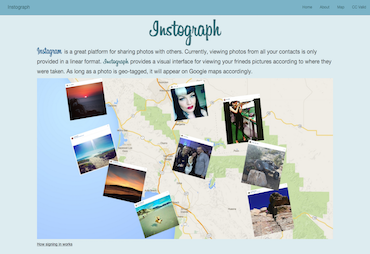
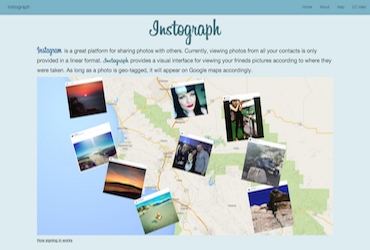
add devweek project

diff --git a/index.html b/index.html
@@ -12,6 +12,7 @@ if ((host == window.location.host) && (window.location.protocol != "https:"))
     window.location.protocol = "https";
   </script>
 
+
   <meta charset=utf-8>
   <meta name="keywords" content="web development, programming, tech, html5, software engineering, css3, tech blog, ruby on rails, ruby, sinatra, rails, travel, korea, html, ajax, css, bay area, jquery"/>
   <meta name="jessc" content="software engineer personal site">
@@ -33,6 +34,9 @@ if ((host == window.location.host) && (window.location.protocol != "https:"))
 
     <link rel="stylesheet" href="https://maxcdn.bootstrapcdn.com/font-awesome/4.5.0/css/font-awesome.min.css">
     <!-- <link rel="stylesheet" href="stylesheets/font-awesome.min.css"> -->
+
+
+
 
   </head>
 
@@ -121,20 +125,44 @@ if ((host == window.location.host) && (window.location.protocol != "https:"))
                 <!-- <span class="close-preview">X</span> -->
 
                 <div class="container">
-                <br><br><br>
+              
                        <h1 class="section-heading"> Recent Projects </h1>
                 <br>      
 
                   <div id="projects-container" style="visibility: visible; position: relative; height: 1656px; width: 1160px;" >
+                    <div id="projects-container-inner">
+
+                    <!-- GUMSHOE PROJECT -->
+                    <article class="indiv-project get-color" style="float: left;">
+
+                      <img class="project-thumb" src="images/gumshoe_hack_winner.png">
+
+                      <div class="hover-mask">
+                        <h2 class="project-title">Gumshoe</h2>
+                        <p>JavaScript | SASS | API</p>
+                      </div>
+                      <!-- GUMSHOE POP UP PREVIEW -->
+                      <div class="sr-only project-description">
+
+                        <img class="project-image" src="images/gumshoe_main.png">
+
+                        <p>GUMSHOE uses Cortial's API to create a digital fingerprint of your online presence. Results are visually displayed to the user. </p>
+
+                        <p>Built with JavaScript, jQuery, AJAX, OAuth2, Cortical API, Facebook API, Twitter API, LinkedIn API</p>
+
+                        <p><a class="link" href="https://github.com/GetGumshoe" target="_blank">Visit Website</a></p>
+
+                      </div>
+                    </article>
 
                     <!-- INSTOGRAPH PROJECT -->
-                    <article class="indiv-project get-color" style="position: absolute; top: 0px; left: 0px;">
+                    <article class="indiv-project get-color" style="float: left;">
 
                       <img class="project-thumb" src="images/instograph-thumb.png">
 
                       <div class="hover-mask">
                         <h2 class="project-title"> Instograph</h2>
-                        <p>Rails | JavaScript | AWS</p>
+                        <p>AWS | Rails | JavaScript</p>
                       </div>
                       <!-- INSTOGRAPH POP UP PREVIEW -->
                       <div class="sr-only project-description">
@@ -151,7 +179,7 @@ if ((host == window.location.host) && (window.location.protocol != "https:"))
                     </article>
 
                     <!-- HITCH PROJECT -->
-                    <article class="indiv-project get-color" style="position: absolute; top: 0px; left: 395px;">
+                    <article class="indiv-project get-color" style="float: left;">
 
                       <img class="project-thumb" src="images/hitch.png">
 
@@ -174,7 +202,7 @@ if ((host == window.location.host) && (window.location.protocol != "https:"))
                     </article>
 
                     <!--   CCVALID PROJECT -->
-                    <article class="indiv-project get-color" style="position: absolute; top: 0px; left: 790px;">
+                    <article class="indiv-project get-color" style="float: left;">
 
                       <img class="project-thumb" src="images/ccvalid.png">
 
@@ -195,7 +223,7 @@ if ((host == window.location.host) && (window.location.protocol != "https:"))
 
                       </div>
                     </article>
-
+                  </div>
 
                   </div>
 
@@ -341,6 +369,14 @@ if ((host == window.location.host) && (window.location.protocol != "https:"))
       <script src="javascripts/scripts.js"></script>
       <script src="javascripts/contact.js"></script>
 
+
+<script>
+    $('.get-color').hover(function() {
+      var randomcolor = "#000000".replace(/0/g,function(){return (~~(Math.random()*16)).toString(16);});
+         //console.log(color); //SHOW RANDOM HEX COLOR
+         $('.hover-mask').css({background: [randomcolor]})
+       });
+</script>
 
       <script type="text/javascript">
     // $(document).ready(function(){alert("This is a JQuery test!")});

diff --git a/stylesheets/style.css b/stylesheets/style.css
@@ -219,12 +219,13 @@ header {
 #projects-container {
     margin:0 auto;
     visibility: hidden;
+    margin: 0px auto;
 }
 
 #projects-container .indiv-project{
     display: block;
     position: relative;
-    margin: 0;
+    //margin: 0;
     width: 370px;
     margin-bottom: 25px;
     -webkit-transform: scale(1);
@@ -249,6 +250,11 @@ header {
 	-webkit-backface-visibility: hidden;
 }
 
+#projects-container-inner {
+    margin: 0 auto;
+    width: 950px;
+}
+
 .indiv-project:hover{
 	cursor: pointer;
 }
@@ -262,24 +268,11 @@ header {
 }
 
 .indiv-project:hover img {
+    height: 100%;
     -webkit-transform: scale(1.6);
     transform: scale(1.6);
     -webkit-transition: -webkit-transform 4s ease-in;
     transition: transform 4s linear;
-}
-
-.indiv-project .hover-mask {
-    position: absolute;
-    padding: 0;
-    width: 100%;
-    height: 100%;
-    top: 0;
-    left: 0;
-    //background: #AE76B7;
-    opacity: 0;
-    filter: alpha(opacity=0);
-    -webkit-transition: all 0.3s ease-out;
-    transition: all 0.3s ease-out;
 }
 
 .indiv-project:hover .hover-mask {
@@ -308,8 +301,12 @@ header {
     opacity: 1;
 }
 
+.indiv-project{ 
+margin-right: 50px;
+margin-left: 50px;
+}
+
 .indiv-project .hover-mask p {
-    margin: 0;
     font-size: 16px;
     line-height: 24px;
     font-weight: 400;
@@ -320,6 +317,20 @@ header {
     transform: translateY(100px);
     -webkit-transition: all 0.3s ease-out 0s;
     transition: all 0.3s ease-out 0s;
+}
+
+.indiv-project .hover-mask {
+    position: absolute;
+    padding: 0;
+    width: 100%;
+    height: 100%;
+    top: 0;
+    left: 0;
+    background: #AE76B7;
+    opacity: 0;
+    filter: alpha(opacity=0);
+    -webkit-transition: all 0.3s ease-out;
+    transition: all 0.3s ease-out;
 }
 
 .indiv-project:hover .hover-mask p {
